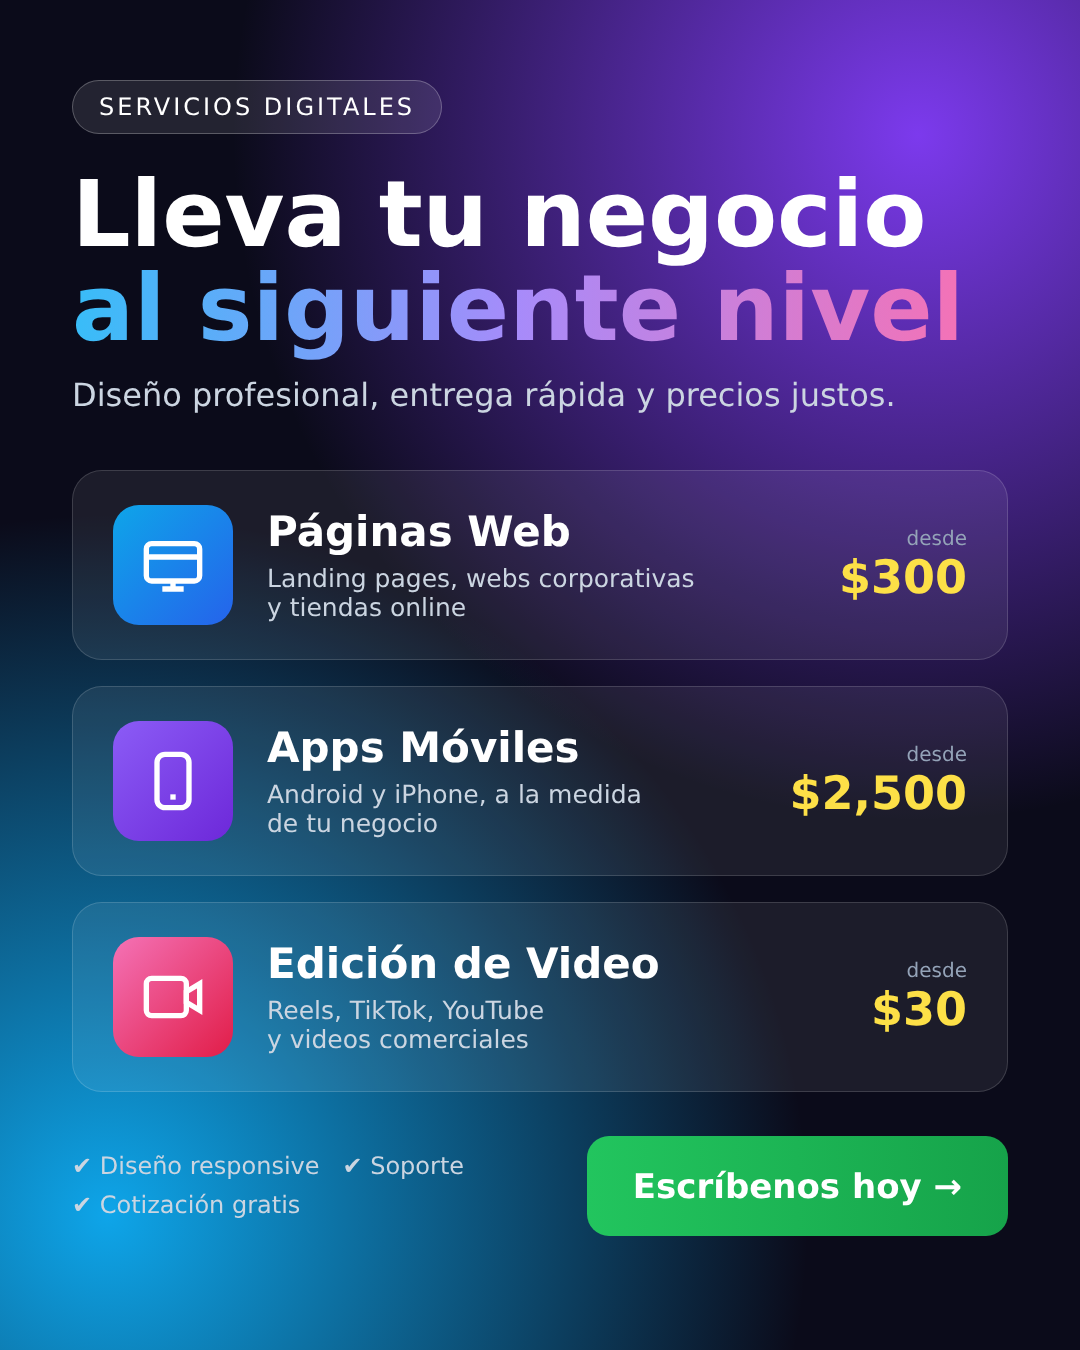
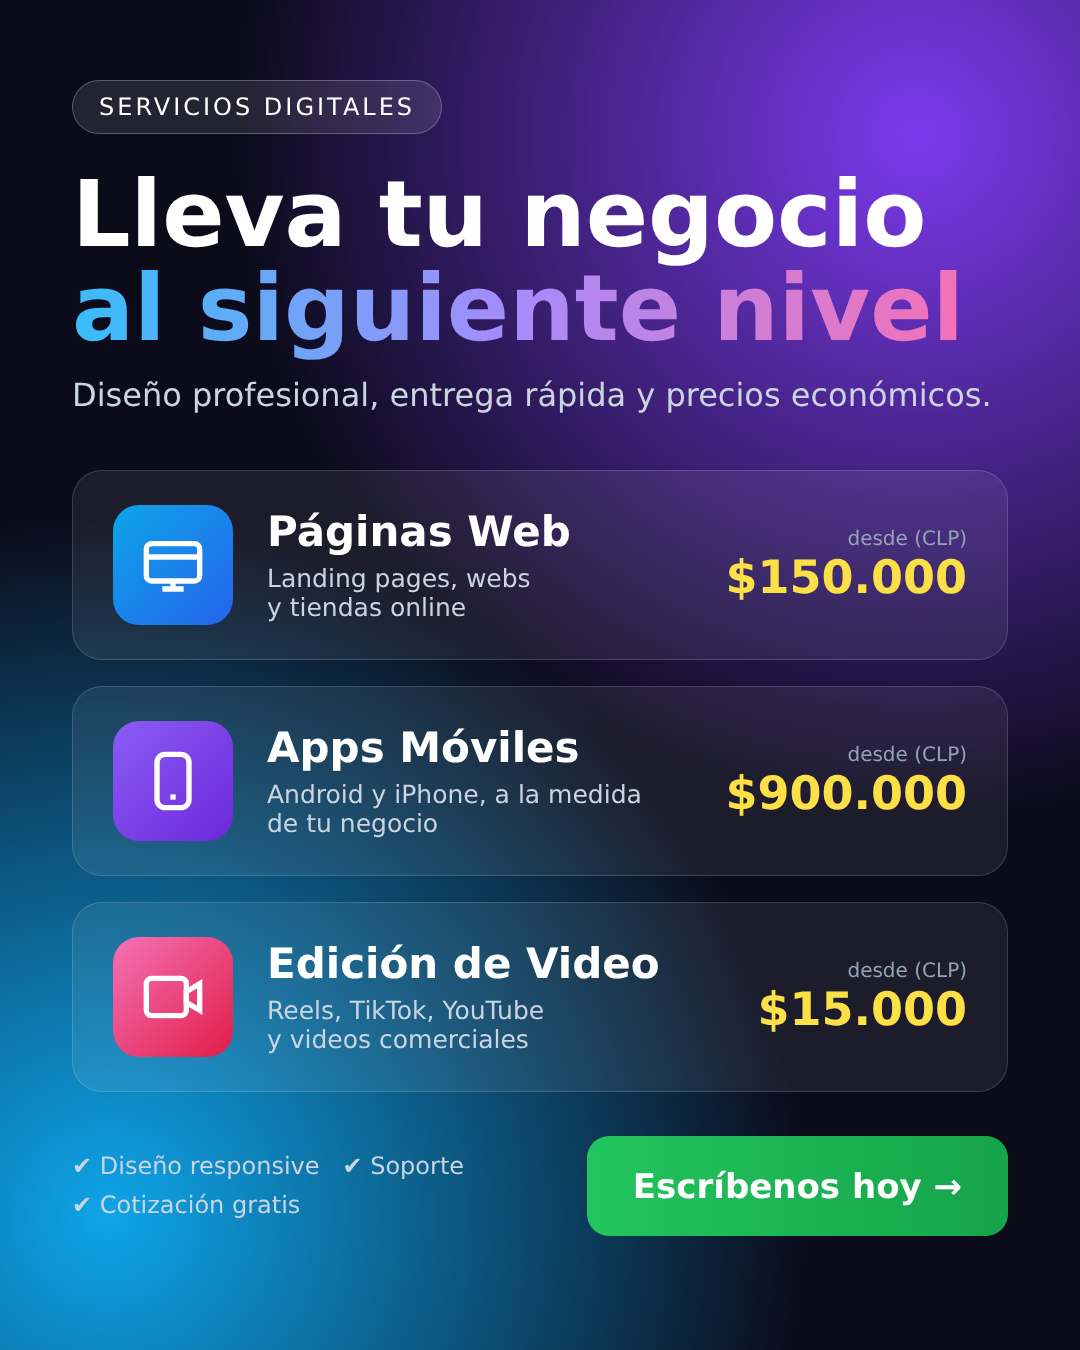
Show service prices in Chilean pesos (CLP)
Claude-Session: https://claude.ai/code/session_01WnokhPpKgF3Nz2iTqBwoGL

diff --git a/marketing/servicios/anuncio-servicios.html b/marketing/servicios/anuncio-servicios.html
@@ -23,19 +23,19 @@ h1 span{background:linear-gradient(90deg,#38bdf8,#a78bfa,#f472b6);-webkit-backgr
 </style></head><body><div class="wrap">
 <div class="tag">SERVICIOS DIGITALES</div>
 <h1>Lleva tu negocio<br><span>al siguiente nivel</span></h1>
-<div class="sub">Diseño profesional, entrega rápida y precios justos.</div>
+<div class="sub">Diseño profesional, entrega rápida y precios económicos.</div>
 
 <div class="card"><div class="ic c1"><svg width="64" height="64" viewBox="0 0 24 24" fill="none" stroke="#fff" stroke-width="2"><rect x="2" y="4" width="20" height="14" rx="2"/><path d="M8 21h8M12 18v3M2 9h20"/></svg></div>
-<div><h2>Páginas Web</h2><p>Landing pages, webs corporativas<br>y tiendas online</p></div>
-<div class="price"><small>desde</small><b>$300</b></div></div>
+<div><h2>Páginas Web</h2><p>Landing pages, webs<br>y tiendas online</p></div>
+<div class="price"><small>desde (CLP)</small><b>$150.000</b></div></div>
 
 <div class="card"><div class="ic c2"><svg width="64" height="64" viewBox="0 0 24 24" fill="none" stroke="#fff" stroke-width="2"><rect x="6" y="2" width="12" height="20" rx="3"/><path d="M11 18h2"/></svg></div>
 <div><h2>Apps Móviles</h2><p>Android y iPhone, a la medida<br>de tu negocio</p></div>
-<div class="price"><small>desde</small><b>$2,500</b></div></div>
+<div class="price"><small>desde (CLP)</small><b>$900.000</b></div></div>
 
 <div class="card"><div class="ic c3"><svg width="64" height="64" viewBox="0 0 24 24" fill="none" stroke="#fff" stroke-width="2"><rect x="2" y="5" width="15" height="14" rx="2"/><path d="M17 10l5-3v10l-5-3z"/></svg></div>
 <div><h2>Edición de Video</h2><p>Reels, TikTok, YouTube<br>y videos comerciales</p></div>
-<div class="price"><small>desde</small><b>$30</b></div></div>
+<div class="price"><small>desde (CLP)</small><b>$15.000</b></div></div>
 
 <div class="cta"><div class="extra">✔ Diseño responsive &nbsp; ✔ Soporte<br>✔ Cotización gratis</div>
 <div class="btn">Escríbenos hoy →</div></div>
